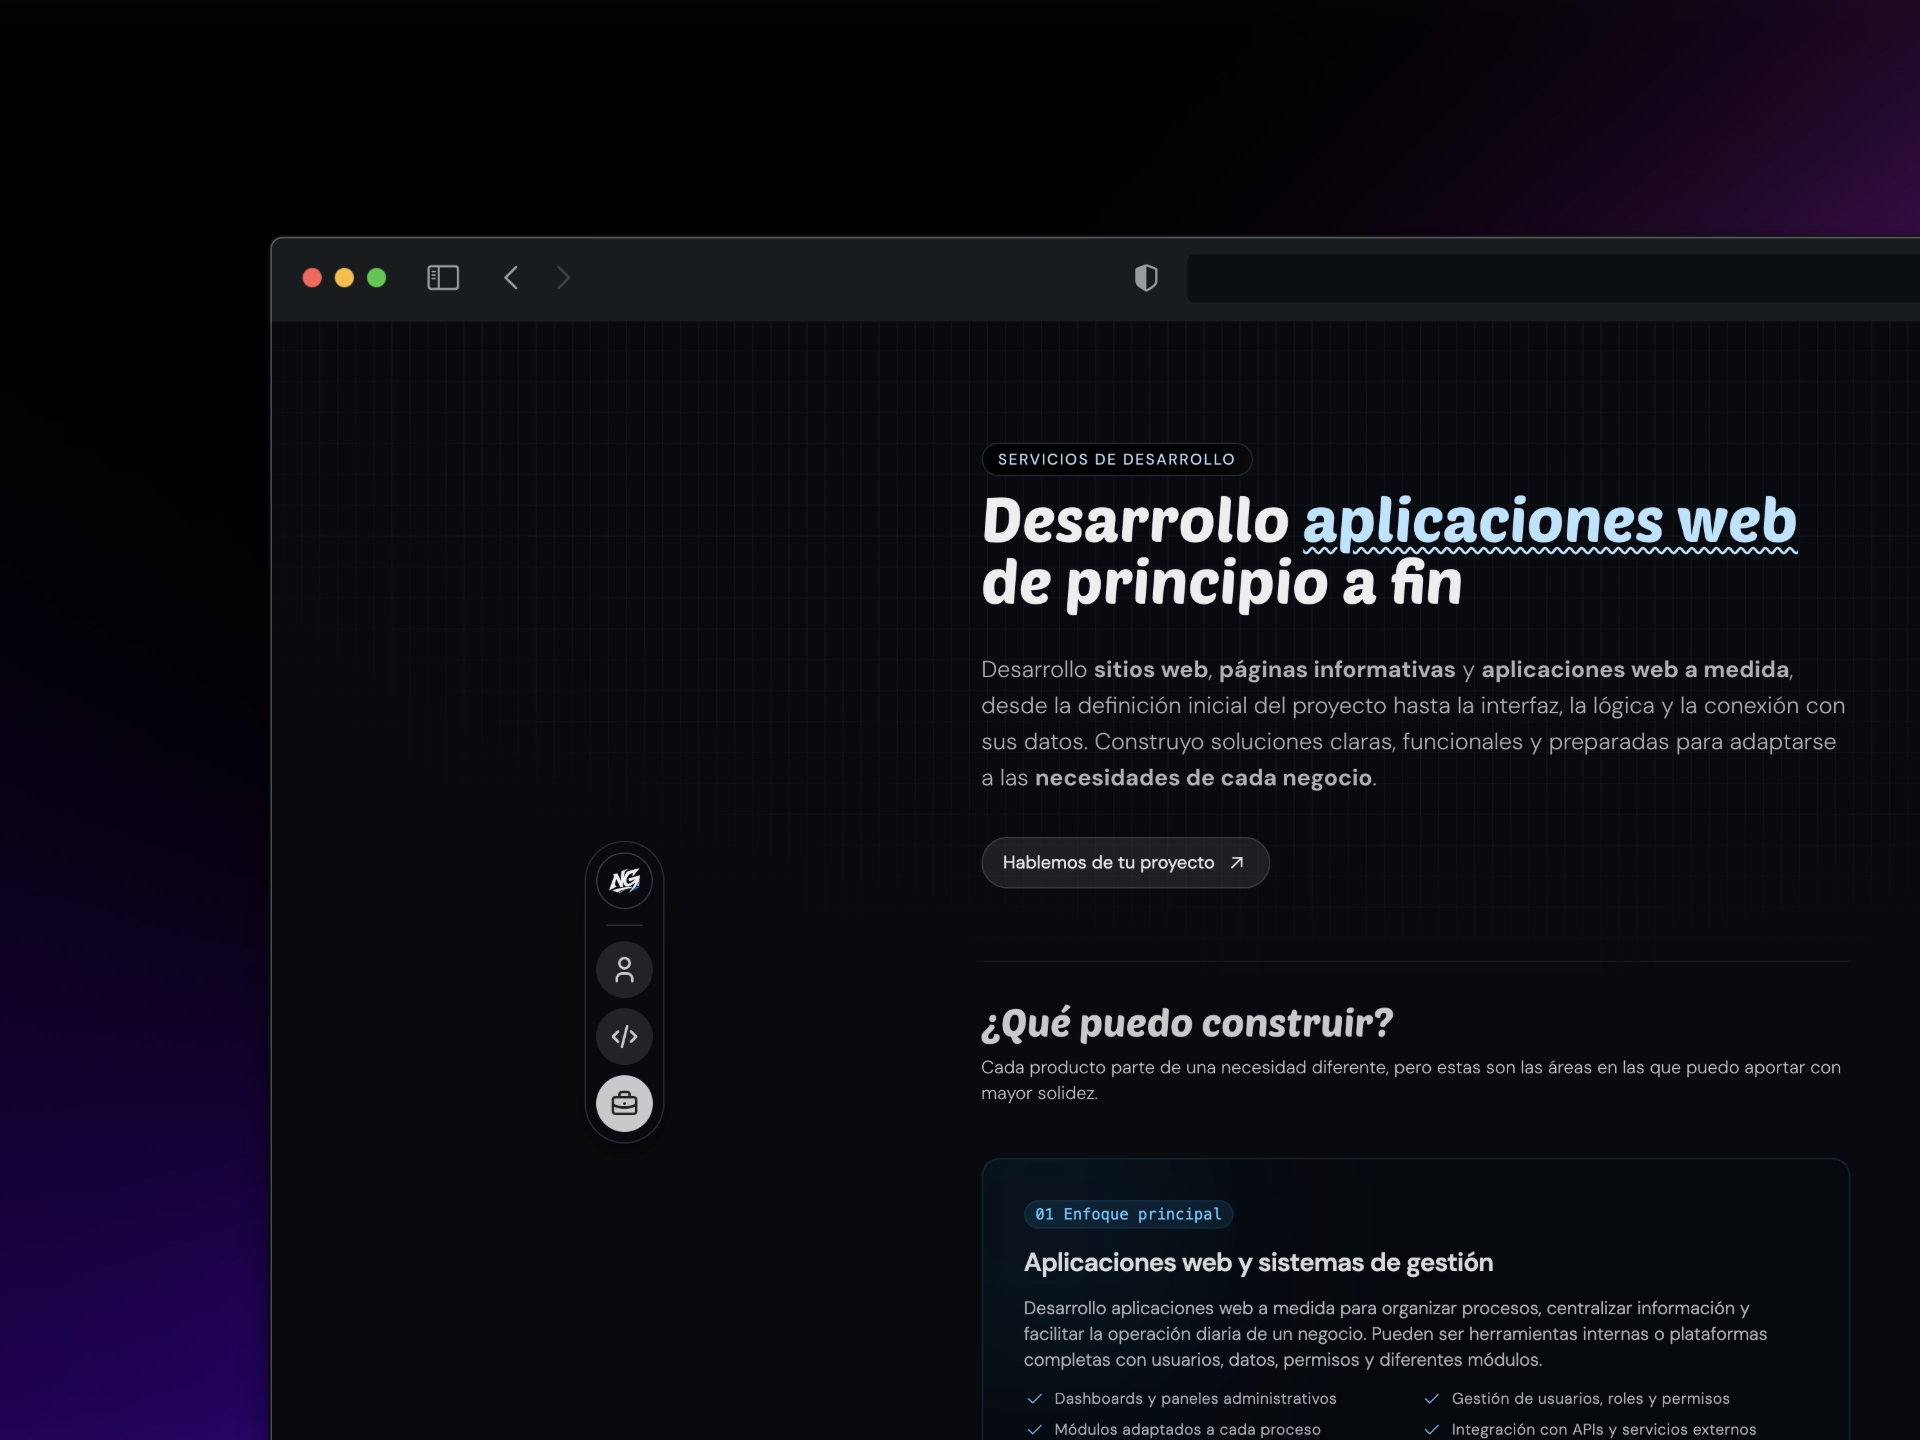
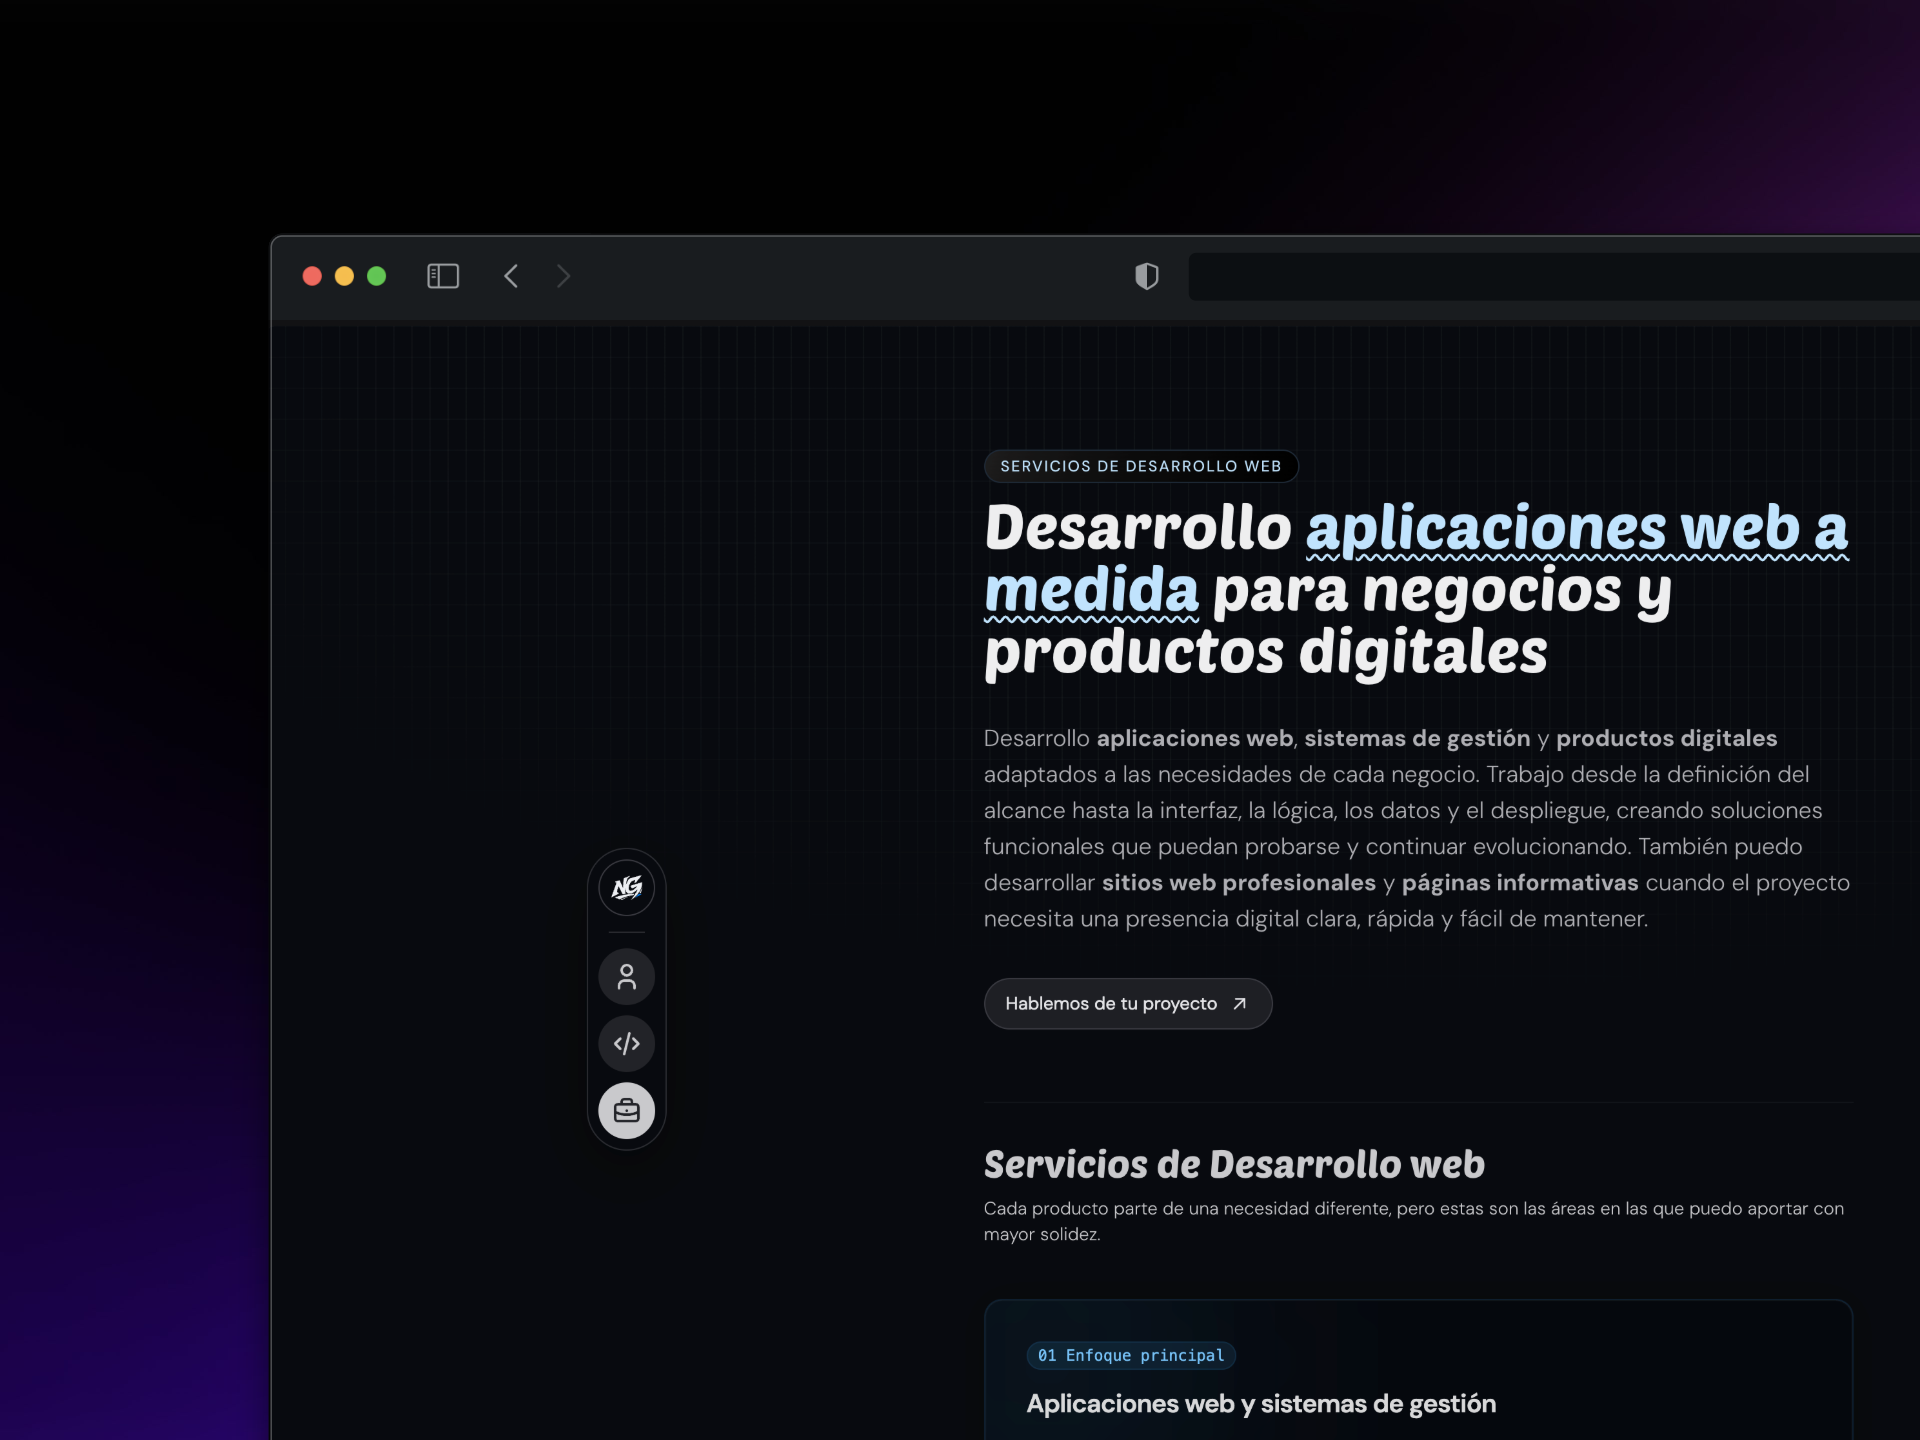
feat(services): refine SEO description and email contact subjects

diff --git a/app/(pages)/services/page.tsx b/app/(pages)/services/page.tsx
@@ -11,7 +11,7 @@ import MyServicesSection from './sections/my-services-section';
 import { WorkProcess } from './sections/work-process-section';
 
 const SERVICES_DESCRIPTION =
-  'Desarrollo aplicaciones web a medida, sistemas de gestión y MVPs con React, Next.js y Node.js para negocios que necesitan digitalizar procesos o lanzar un producto.';
+  'Desarrollo aplicaciones web a medida, sistemas de gestión y MVPs con React, Next.js y Node.js para digitalizar procesos o lanzar productos.';
 
 export const metadata: Metadata = createPageMetadata({
   title: 'Desarrollo de aplicaciones web a medida',
@@ -64,7 +64,9 @@ const ServicesPage = async () => {
 
               <Button
                 as="a"
-                href={`mailto:${contact.email}`}
+                href={`mailto:${contact.email}?subject=${encodeURIComponent(
+                  'Consulta sobre desarrollo web',
+                )}`}
                 radius="full"
                 endContent={
                   <IconArrowUpRight aria-hidden="true" size={18} stroke={1.8} />

diff --git a/app/(pages)/(home)/sections/hero-section.tsx b/app/(pages)/(home)/sections/hero-section.tsx
@@ -146,7 +146,9 @@ const HeroSection: FC<Props> = async ({ contact, overview }) => {
 
                 <li>
                   <SocialChip
-                    href={`mailto:${email}`}
+                    href={`mailto:${contact.email}?subject=${encodeURIComponent(
+                      'Oportunidad laboral',
+                    )}`}
                     icon={IconMailShare}
                     label="Escríbeme"
                     variant="email"

diff --git a/app/(pages)/services/sections/hero-section.tsx b/app/(pages)/services/sections/hero-section.tsx
@@ -36,7 +36,9 @@ const HeroSection = ({ email }: { email: string }) => {
       <Button
         as="a"
         radius="full"
-        href={`mailto:${email}`}
+        href={`mailto:${email}?subject=${encodeURIComponent(
+          'Consulta sobre desarrollo web',
+        )}`}
         variant="flat"
         className="border border-ink-700 mb-7 md:w-max"
         endContent={

diff --git a/app/(pages)/services/sections/my-services-section.tsx b/app/(pages)/services/sections/my-services-section.tsx
@@ -54,6 +54,7 @@ const SERVICES: Service[] = [
     features: [
       'Definición del alcance inicial',
       'Organización de requerimientos',
+      'Definición de flujos principales',
       'Desarrollo frontend y backend',
       'Despliegue y preparación inicial',
     ],